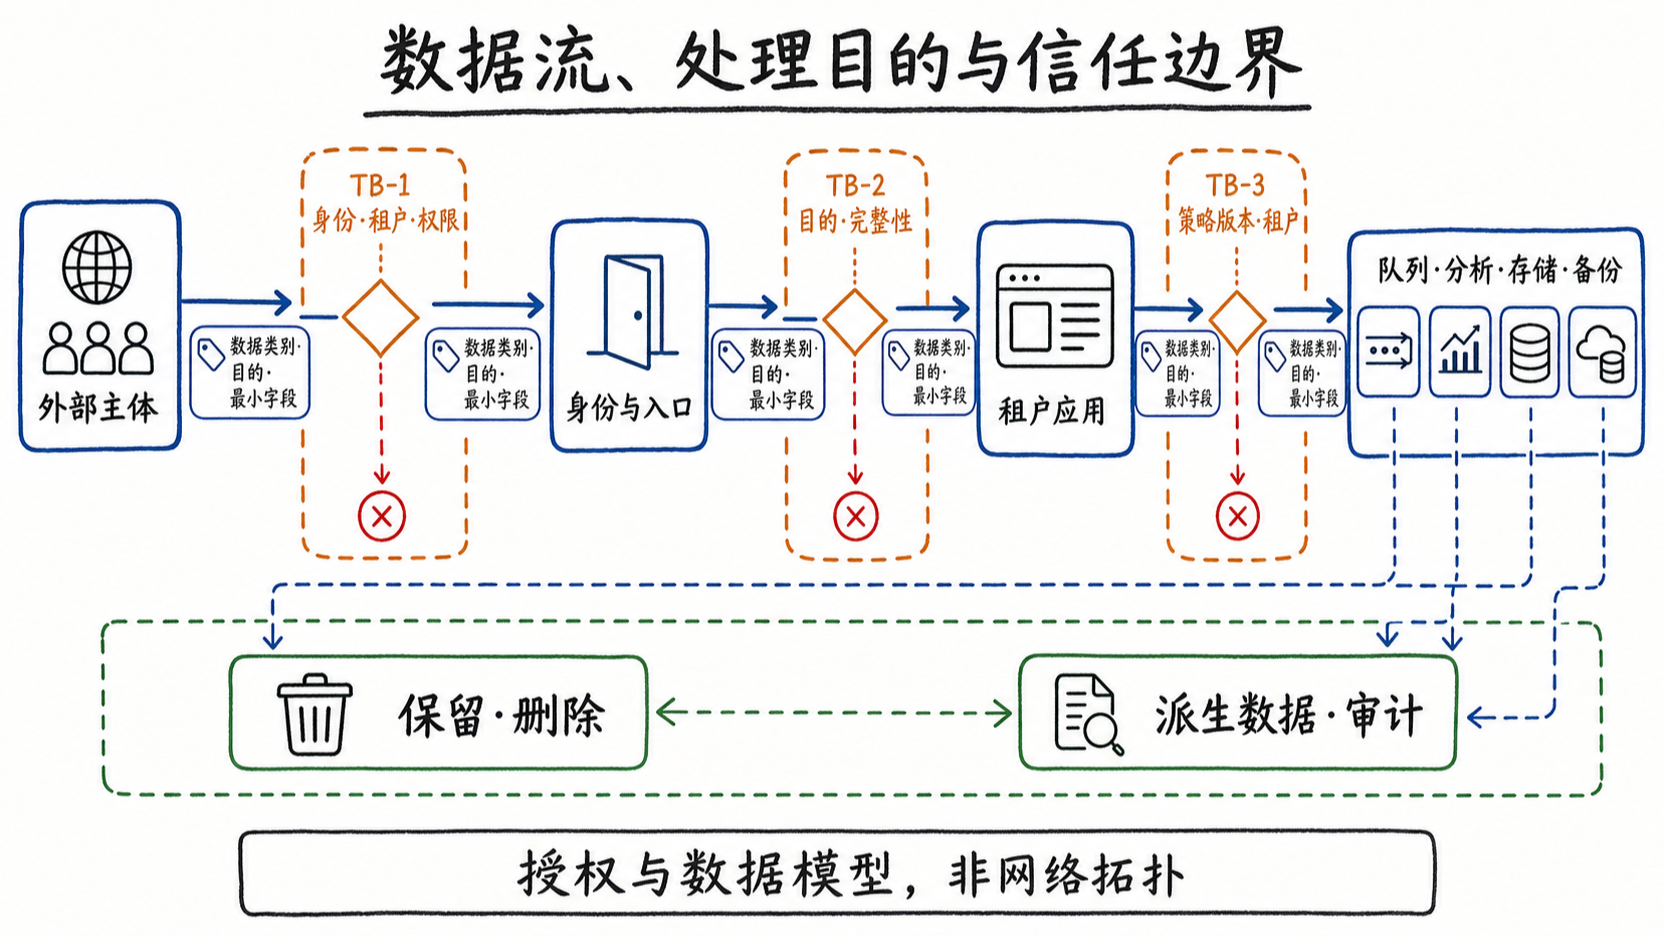
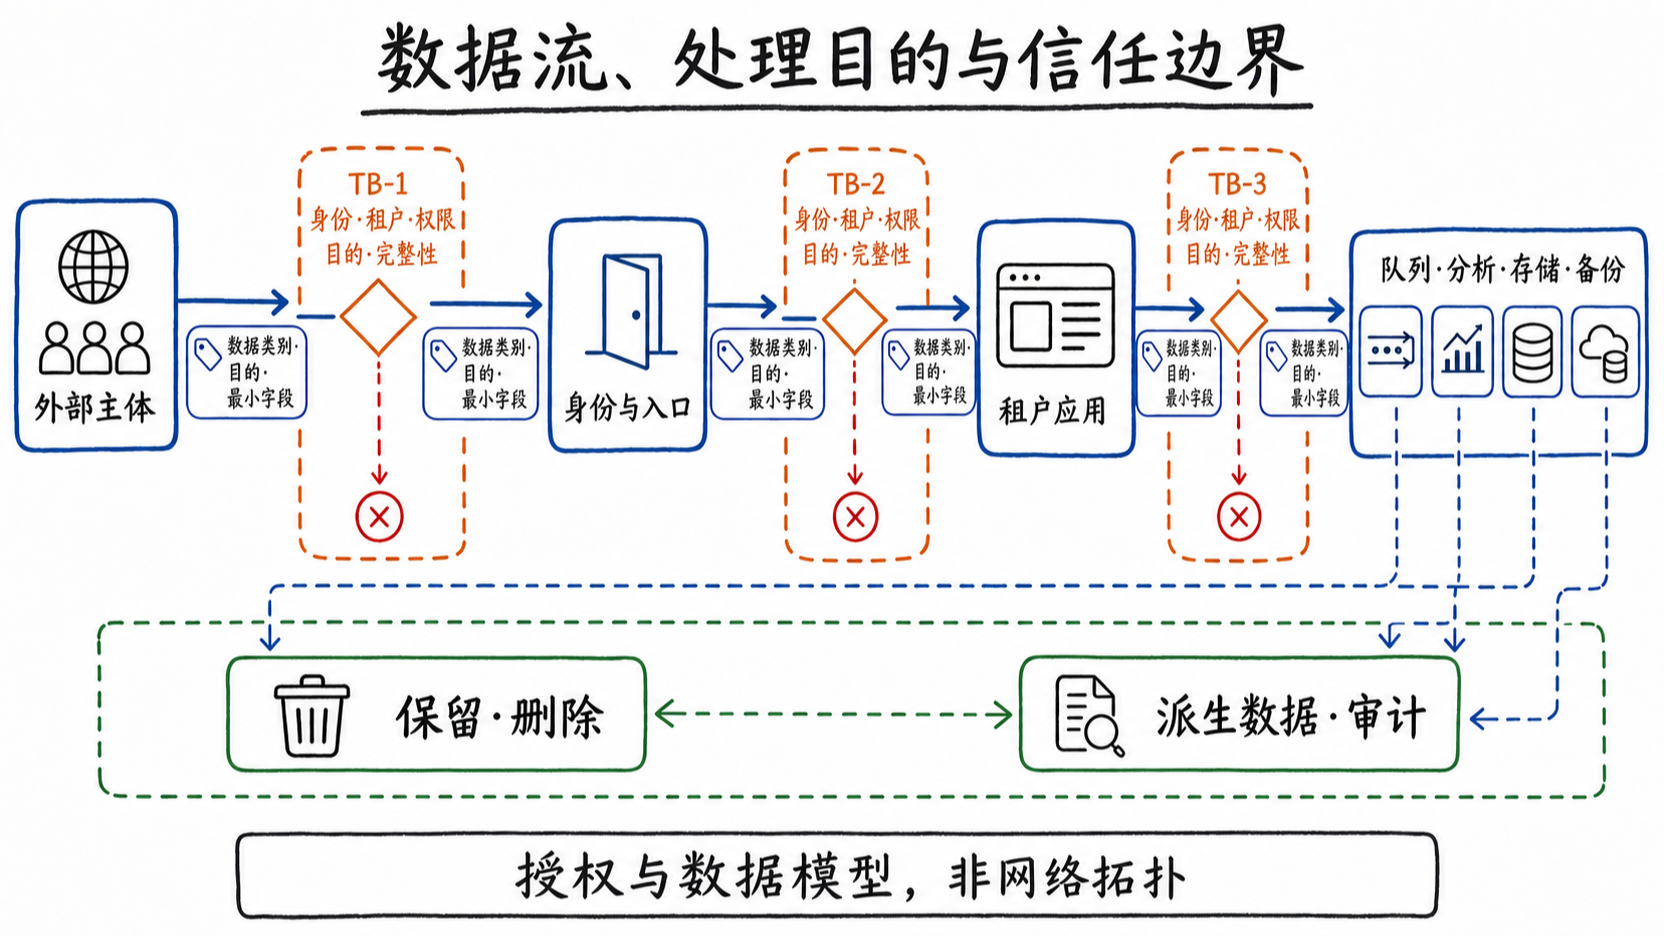
fix: complete qa05 trust boundary constraints

diff --git a/docs/superpowers/plans/2026-07-27-g006-batch3-security-operability-safety.md b/docs/superpowers/plans/2026-07-27-g006-batch3-security-operability-safety.md
@@ -101,7 +101,7 @@ Expected: checkout is full-history and tier counts are exactly 376/25/4/7. This 
 - Modify: `tests/g006-batch1-content.test.mjs`, `tests/g006-batch2-content.test.mjs`
 - Modify: `content/paths/05-production-governance.mdx`, `content/paths/07-cloud-native-platform.mdx`, `content/paths/09-edge-physical-agents.mdx`, `content/paths/10-agent-platform-gateway.mdx`
 - Modify: `data/source-ledger.json`, `data/source-link-health.json`
-- Modify: `tests/project-status.test.mjs`, `tests/content-review-health.test.mjs`, `tests/source-ledger-pagination.test.mjs`, `tests/source-ledger-rendering.test.mjs`, `tests/canonical-identity.test.mjs`
+- Modify: `tests/project-status.test.mjs`, `tests/content-review-health.test.mjs`, `tests/source-ledger-pagination.test.mjs`, `tests/source-ledger-rendering.test.mjs`
 - Generate: `src/generated/*.json`
 
 **Interfaces:**
@@ -215,7 +215,7 @@ Expected: full GREEN at 18/65/418 and tiers 382/25/4/7; primary/first-party pagi
 - Create: `static/img/illustrations/qa-08-operability-recovery-loop.png`
 - Create: `static/img/illustrations/qa-09-safety-control-loop.png`
 - Modify: the three Batch 3 MDX files and `data/source-ledger.json`
-- Modify: `tests/project-status.test.mjs`, `tests/content-review-health.test.mjs`, `tests/source-ledger-pagination.test.mjs`, `tests/source-ledger-rendering.test.mjs`
+- Modify: `tests/project-status.test.mjs`, `tests/content-review-health.test.mjs`, `tests/source-ledger-pagination.test.mjs`, `tests/source-ledger-rendering.test.mjs`, `tests/canonical-identity.test.mjs`
 - Generate: `src/generated/*.json`
 
 **Interfaces:**
@@ -233,7 +233,7 @@ Expected: FAIL for the three absent assets and citations.
 
 - [ ] **Step 2: Generate and inspect the QA-05 raster**
 
-Use built-in `imagegen` with no reference image. Brief: simplified-Chinese 16:9 architecture map titled `数据流、处理目的与信任边界`; subjects and external actors cross TB-1 into identity/edge, TB-2 into a tenant application, and TB-3 into queue/analytics/storage/backup. Every arrow carries data class, purpose and minimal fields; every boundary lists identity, tenant, permission, purpose and integrity claims; show retention/deletion, derived data and audit. State visually that it is an authorization/data model, not network topology. Do not reproduce OWASP/NIST figures or imply complete threat coverage/compliance.
+Use built-in `imagegen` with no reference image. Brief: simplified-Chinese 16:9 architecture map titled `数据流、处理目的与信任边界`; subjects and external actors cross TB-1 into identity/edge, TB-2 into a tenant application, and TB-3 into queue/analytics/storage/backup. Every arrow carries data class, purpose and minimal fields; each of TB-1, TB-2, and TB-3 independently displays both exact lines `身份·租户·权限` and `目的·完整性`, without splitting the five constraints across boundaries or substituting a policy-version label; show retention/deletion, derived data and audit. State visually that it is an authorization/data model, not network topology. Do not reproduce OWASP/NIST figures or imply complete threat coverage/compliance.
 
 - [ ] **Step 3: Generate and inspect the QA-08 raster**
 
